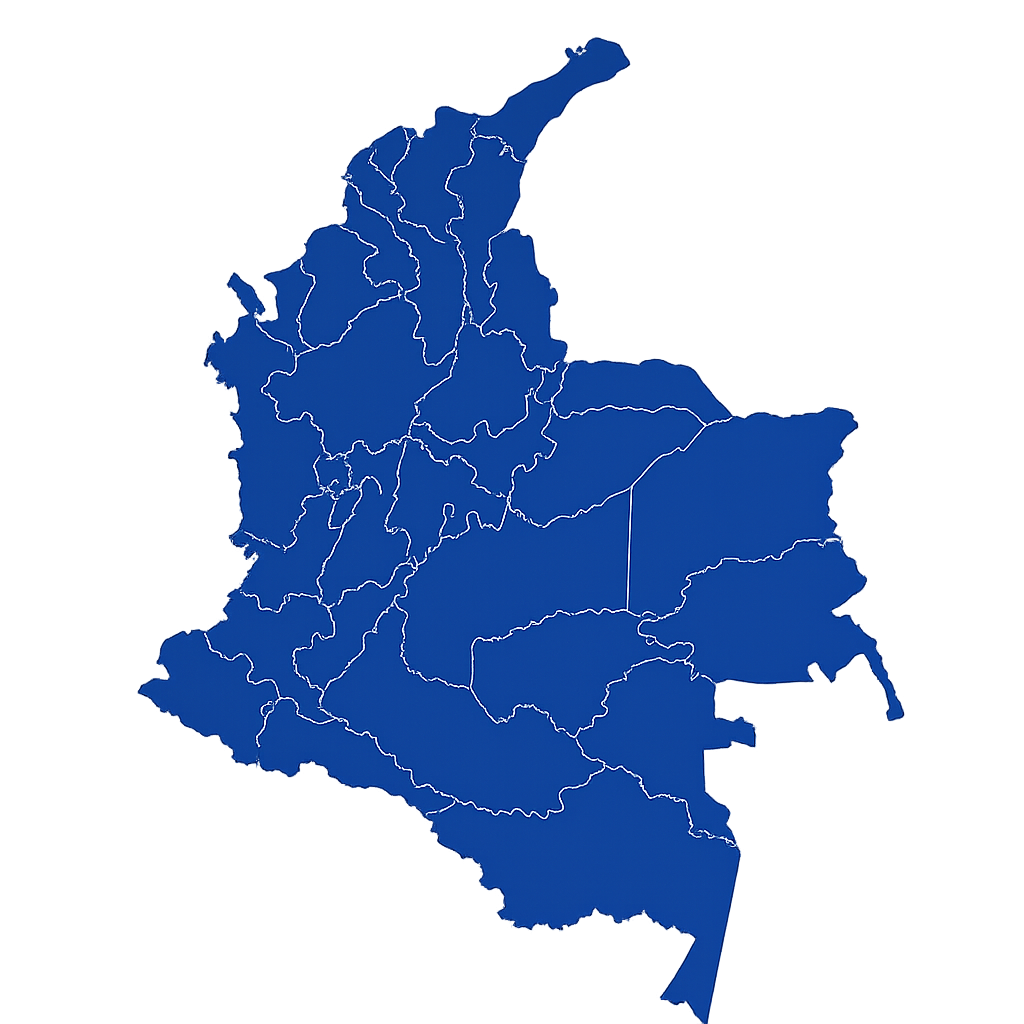
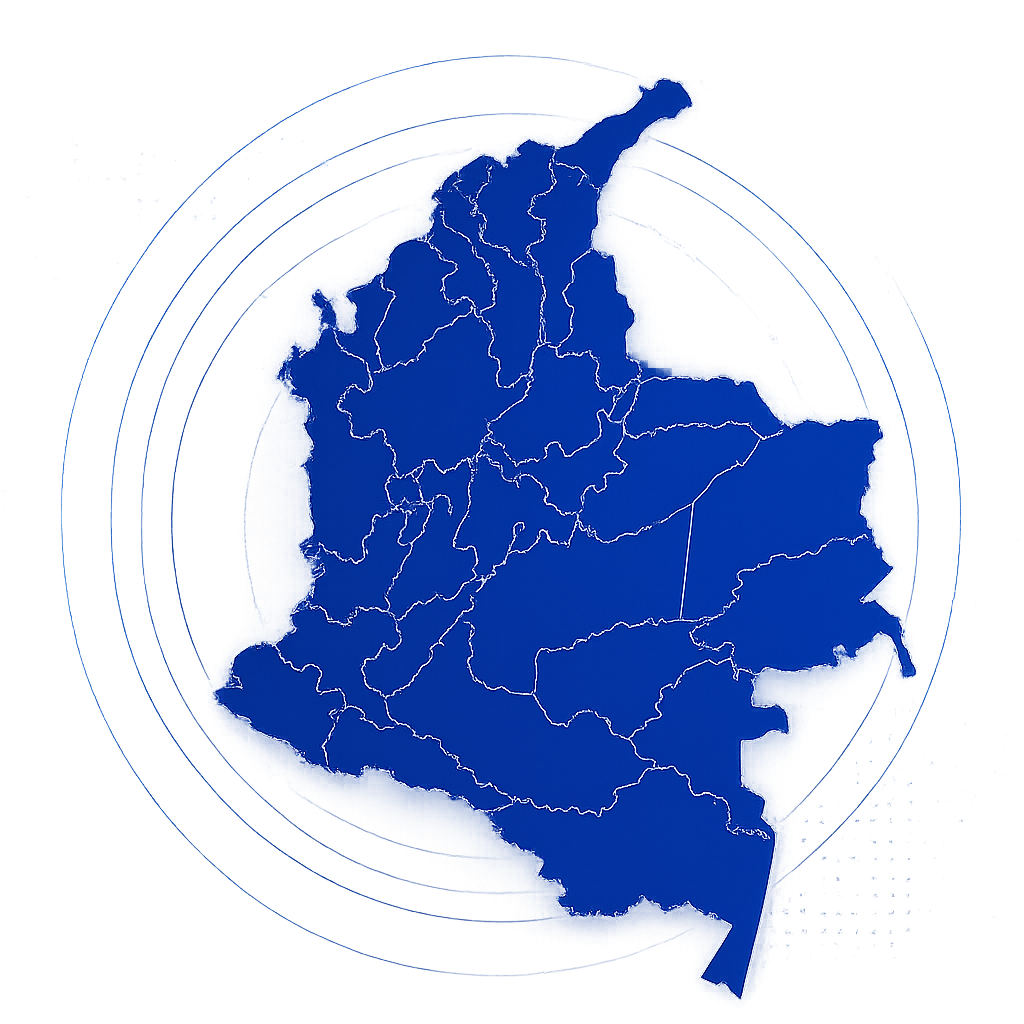
images low

Changed region(s): [[0.125, 0.0312, 0.9062, 1.0]]

diff --git a/src/pages/ServicesPage.tsx b/src/pages/ServicesPage.tsx
@@ -1,133 +1,48 @@
-import Container from "../components/Container";
-import heroImage from "../assets/servicios.png";
-
-const serviceGroups = [
-  {
-    title: "Sector Transporte",
-    subtitle: "Carga seca y líquida",
-    services: [
-      "Certificación de quinta rueda",
-      "Certificación de King pin",
-      "Certificación de tornamesa",
-      "Certificación de tren de apoyo",
-      "Pruebas de hermeticidad e hidrostática",
-      "Certificación línea de vida",
-      "Venta de repuestos originales del sistema de enganche",
-      "Inspección de cama bajas",
-    ],
-  },
-  {
-    title: "Elementos de Izaje",
-    subtitle: "Inspección especializada",
-    services: [
-      "Cadenas",
-      "Grilletes",
-      "Raches",
-      "Pasadores",
-      "Platos",
-      "Ganchos",
-      "Poleas",
-      "Anillos",
-      "Grúas móviles",
-      "Torre grúas",
-      "Inspección de eslingas",
-      "Winche",
-    ],
-  },
-  {
-    title: "Montacargas",
-    subtitle: "Certificación e inspección",
-    services: [
-      "Certificación de montacarga",
-      "Inspección de uñas",
-      "Inspección de espejo",
-    ],
-  },
-  {
-    title: "Soldadura",
-    subtitle: "Certificación general",
-    services: [
-      "Certificación de soldadura en general",
-    ],
-  },
-];
+import Container from "../components/Container"
+import { services } from "../data/services"
+import ServiceInspection from "../sections/ServiceInspection"
+import ServiceTransport from "../sections/ServiceTransport"
+import heroImage from "../assets/servicios.webp";
+import ServiceMontacarga from "../sections/ServiceMontacarga";
+import { Fade } from "react-awesome-reveal";
 
 export default function ServicesPage() {
-  return (
-    <main>
-     <section className="relative h-[320px] overflow-hidden md:h-[380px]" id="top">
-      <img src={heroImage} alt="Servicios P&T" className="absolute inset-0 h-full w-full object-cover"/>
-      <div className="absolute inset-0 bg-black/55" />
+    const servicios_transp = services[0]
+    const inspeccion = services[1]
+    const montacarga = services[2]
+    return (
+      <main>
+        <section id="top" className="relative destello overflow-hidden bg-gradient-to-r from-slate-950 via-slate-900 to-slate-800 text-center">
+            <div className="absolute  inset-0 bg-cover bg-center opacity-35" style={{ backgroundImage: `url(${heroImage})`,}}/>
+            <div className="absolute inset-0 bg-gradient-to-r from-slate-950 via-slate-950/85 to-slate-950/40" />
+            <div className="absolute right-0 top-0 h-80 w-80 rounded-full border border-sky-400/30 translate-x-1/2 -translate-y-1/2" />
+            <div className="absolute bottom-10 right-40 h-px w-96 rotate-[-12deg] bg-sky-400/40" />
 
-      <Container className="relative z-10 flex h-full items-center justify-center text-center">
-        <h1 className="text-5xl font-bold text-white md:text-6xl pt-10">
-          Nuestros servicios
-        </h1>
-     
-      </Container>
-    </section>
+            <div className="relative mx-auto max-w-7xl px-6 py-16 md:py-14 lg:px-8 text-center">
+              <Fade direction="down" cascade>
+              <h1 className="mt-2  text-3xl font-bold tracking-tight text-white md:text-5xl">
+                Nuestros servicios
+              </h1>
+                <div className="mx-auto mt-6 h-1 w-20 rounded-full bg-sky-400" />
 
-      <section className="bg-slate-50 py-10">
-        <Container>
-          <div className="mb-14 flex flex-col justify-center items-center text-center">
-          
-            <div className="mt-4 h-1 w-16 rounded-full bg-sky-400" />
+                <p className="mx-auto mt-6 max-w-2xl text-lg leading-8 text-slate-300 md:text-xl">
+                  Ingeniería, inspección y confiabilidad para la industria colombiana.
+                </p>
+              </Fade>
+            </div>
+        </section>
+    
 
-            <p className="mt-6 text-lg w-[90%] lg:w-[60%] leading-8 text-slate-500">
-              Contamos con procesos técnicos orientados al cumplimiento de normas, seguridad operativa y confiabilidad para nuestros clientes.
-            </p>
-          </div>
+        <section className="w-full  pt-16 pb-8 md:py-16 md:px-10"  >
+         
+            <Container className="relative ">
+                <ServiceTransport title={servicios_transp.title} subtitle={servicios_transp.subtitle} items={servicios_transp.items}/>
+                <ServiceInspection title={inspeccion.title} subtitle={inspeccion.subtitle} items={inspeccion.items}/>
+            </Container>
+            
+        </section>  
+                <ServiceMontacarga  title={montacarga.title} subtitle={montacarga.subtitle} items={montacarga.items} />
 
-          <div className="grid gap-8 lg:grid-cols-2">
-            {serviceGroups.map((group) => (
-              <article
-                key={group.title}
-                className="rounded-3xl bg-white p-8 shadow-sm transition hover:-translate-y-1 hover:shadow-lg"
-              >
-                <span className="text-sm font-semibold uppercase tracking-widest text-sky-500">
-                  {group.subtitle}
-                </span>
-
-                <h3 className="mt-3 text-3xl font-bold text-slate-800">
-                  {group.title}
-                </h3>
-
-                <ul className="mt-7 grid gap-4 sm:grid-cols-2">
-                  {group.services.map((service) => (
-                    <li
-                      key={service}
-                      className="flex gap-3 text-slate-600"
-                    >
-                      <span className="mt-1 flex h-5 w-5 shrink-0 items-center justify-center rounded-full bg-sky-100 text-xs font-bold text-sky-500">
-                        ✓
-                      </span>
-
-                      <span>{service}</span>
-                    </li>
-                  ))}
-                </ul>
-              </article>
-            ))}
-          </div>
-
-          <div className="mt-16 rounded-3xl bg-slate-900 p-10 text-center text-white">
-            <h3 className="text-3xl font-bold">
-              ¿Necesitas una certificación o inspección?
-            </h3>
-
-            <p className="mx-auto mt-4 max-w-2xl text-white/70">
-              Ponte en contacto con nuestro equipo para recibir asesoría personalizada según el tipo de servicio que necesitas.
-            </p>
-
-            <a
-              href="/#contacto"
-              className="mt-8 inline-flex rounded-full bg-sky-400 px-10 py-4 font-semibold text-white transition hover:bg-sky-500"
-            >
-              Solicitar información
-            </a>
-          </div>
-        </Container>
-      </section>
-    </main>
-  );
+        </main>
+    )
 }

diff --git a/src/data/services.ts b/src/data/services.ts
@@ -1,19 +1,19 @@
-import quintaRuedaImage from "../assets/servicios/quinta_rueda.png";
-import kingpinImage from "../assets/servicios/king_pin.png";
-import hermeticidadImage from "../assets/servicios/hermeticidad.png";
-import lineasVidaImage from "../assets/servicios/lineas_vida.png";
-import cadenaImage from "../assets/servicios/s_cadenas.png";
-import grilletrImage from "../assets/servicios/s_2.png";
-import rachesImage from "../assets/servicios/s_3.png";
-import espesorImage from "../assets/servicios/espesores.png";
-import pasadoresImage from "../assets/servicios/s_4.png";
-import platosImage from "../assets/servicios/s_5.png";
-import ganchoImage from "../assets/servicios/s_6.png";
-import poleasImage from "../assets/servicios/s_7.png";
-import anillosImage from "../assets/servicios/s_8.png";
-import tornamesaImage from "../assets/servicios/s_9.png";
-import aforoImage from "../assets/servicios/s_11.png";
-import trenImage from "../assets/servicios/s_10.png";
+import quintaRuedaImage from "../assets/servicios/quinta_rueda.webp";
+import kingpinImage from "../assets/servicios/king_pin.webp";
+import hermeticidadImage from "../assets/servicios/hermeticidad.webp";
+import lineasVidaImage from "../assets/servicios/lineas_vida.webp";
+import cadenaImage from "../assets/servicios/s_cadenas.webp";
+import grilletrImage from "../assets/servicios/s_2.webp";
+import rachesImage from "../assets/servicios/s_3.webp";
+import espesorImage from "../assets/servicios/espesores.webp";
+import pasadoresImage from "../assets/servicios/s_4.webp";
+import platosImage from "../assets/servicios/s_5.webp";
+import ganchoImage from "../assets/servicios/s_6.webp";
+import poleasImage from "../assets/servicios/s_7.webp";
+import anillosImage from "../assets/servicios/s_8.webp";
+import tornamesaImage from "../assets/servicios/s_9.webp";
+import aforoImage from "../assets/servicios/s_11.webp";
+import trenImage from "../assets/servicios/s_10.webp";
 
 
 import type { NormsProps, TransporteItem } from "../types/services";

diff --git a/src/App.tsx b/src/App.tsx
@@ -2,7 +2,6 @@ import { BrowserRouter, Routes, Route } from "react-router-dom";
 import { Toaster } from "react-hot-toast";
 import MainLayout from "./layouts/MainLayout";
 import Home from "./pages/Home";
-import Services2Page from "./pages/Services2Page";
 import CertificatePage from "./pages/CertificatePage";
 import AdminLayout from "./layouts/AdminLayout";
 import LoginPage from "./pages/LoginPage";
@@ -10,6 +9,7 @@ import AdminCertificates from "./pages/AdminPage";
 import NotFoundPage from "./pages/NotFoundPage";
 import ProtectedRoute from "./components/ProtectedRoute";
 import PublicRoute from "./components/PublicRoute";
+import ServicesPage from "./pages/ServicesPage";
 function App() {
   return (
     <main className="min-h-screen">
@@ -21,7 +21,7 @@ function App() {
           {/* Página normal */}
           <Route element={<MainLayout />}>
             <Route path="/" element={<Home />} />
-            <Route path="/servicios" element={<Services2Page />} />
+            <Route path="/servicios" element={<ServicesPage />} />
             <Route 
               path="/consulta-certificado" 
               element={<CertificatePage />} 

diff --git a/src/components/Header.tsx b/src/components/Header.tsx
@@ -1,6 +1,6 @@
 import { Link, useLocation } from "react-router-dom";
-import logoImage from "../assets/logo-2.png";
-import logoImage2 from "../assets/logo-3.png";
+import logoImage from "../assets/logo.png";
+import logoImage2 from "../assets/logo-blanco.png";
 import Container from "./Container";
 import { useEffect, useState } from "react";
 import { menuItems } from "../data/general";

diff --git a/src/data/general.ts b/src/data/general.ts
@@ -1,6 +1,6 @@
 import { Clock, Eye, Mail, MapPin, Phone, RefreshCcw, Target } from "lucide-react";
-import misionImage from "../assets/historia.png";
-import visionImage from "../assets/vision.png";
+import misionImage from "../assets/historia.webp";
+import visionImage from "../assets/vision.webp";
 
 export const menuItems = [
       { label: "Inicio", to: "/#inicio", section: "inicio" },

diff --git a/src/pages/CertificatePage.tsx b/src/pages/CertificatePage.tsx
@@ -1,5 +1,5 @@
 import Container from "../components/Container";
-import certificateImage from "../assets/consulta.png";
+import certificateImage from "../assets/consulta.webp";
 import { useState } from "react";
 import SelectField from "../components/SelectField";
 import { Fade } from "react-awesome-reveal";

diff --git a/src/sections/Hero.tsx b/src/sections/Hero.tsx
@@ -1,5 +1,5 @@
 import { Fade } from "react-awesome-reveal";
-import heroImage from "../assets/hero.png";
+import heroImage from "../assets/hero.webp";
 import Container from "../components/Container";
 
 export default function Hero() {

diff --git a/src/sections/National.tsx b/src/sections/National.tsx
@@ -1,5 +1,5 @@
 import Container from "../components/Container";
-import colombiaMap from "../assets/mapa3.png";
+import colombiaMap from "../assets/mapa-colombia.png";
 import { Fade } from "react-awesome-reveal";
 
 export default function National(){